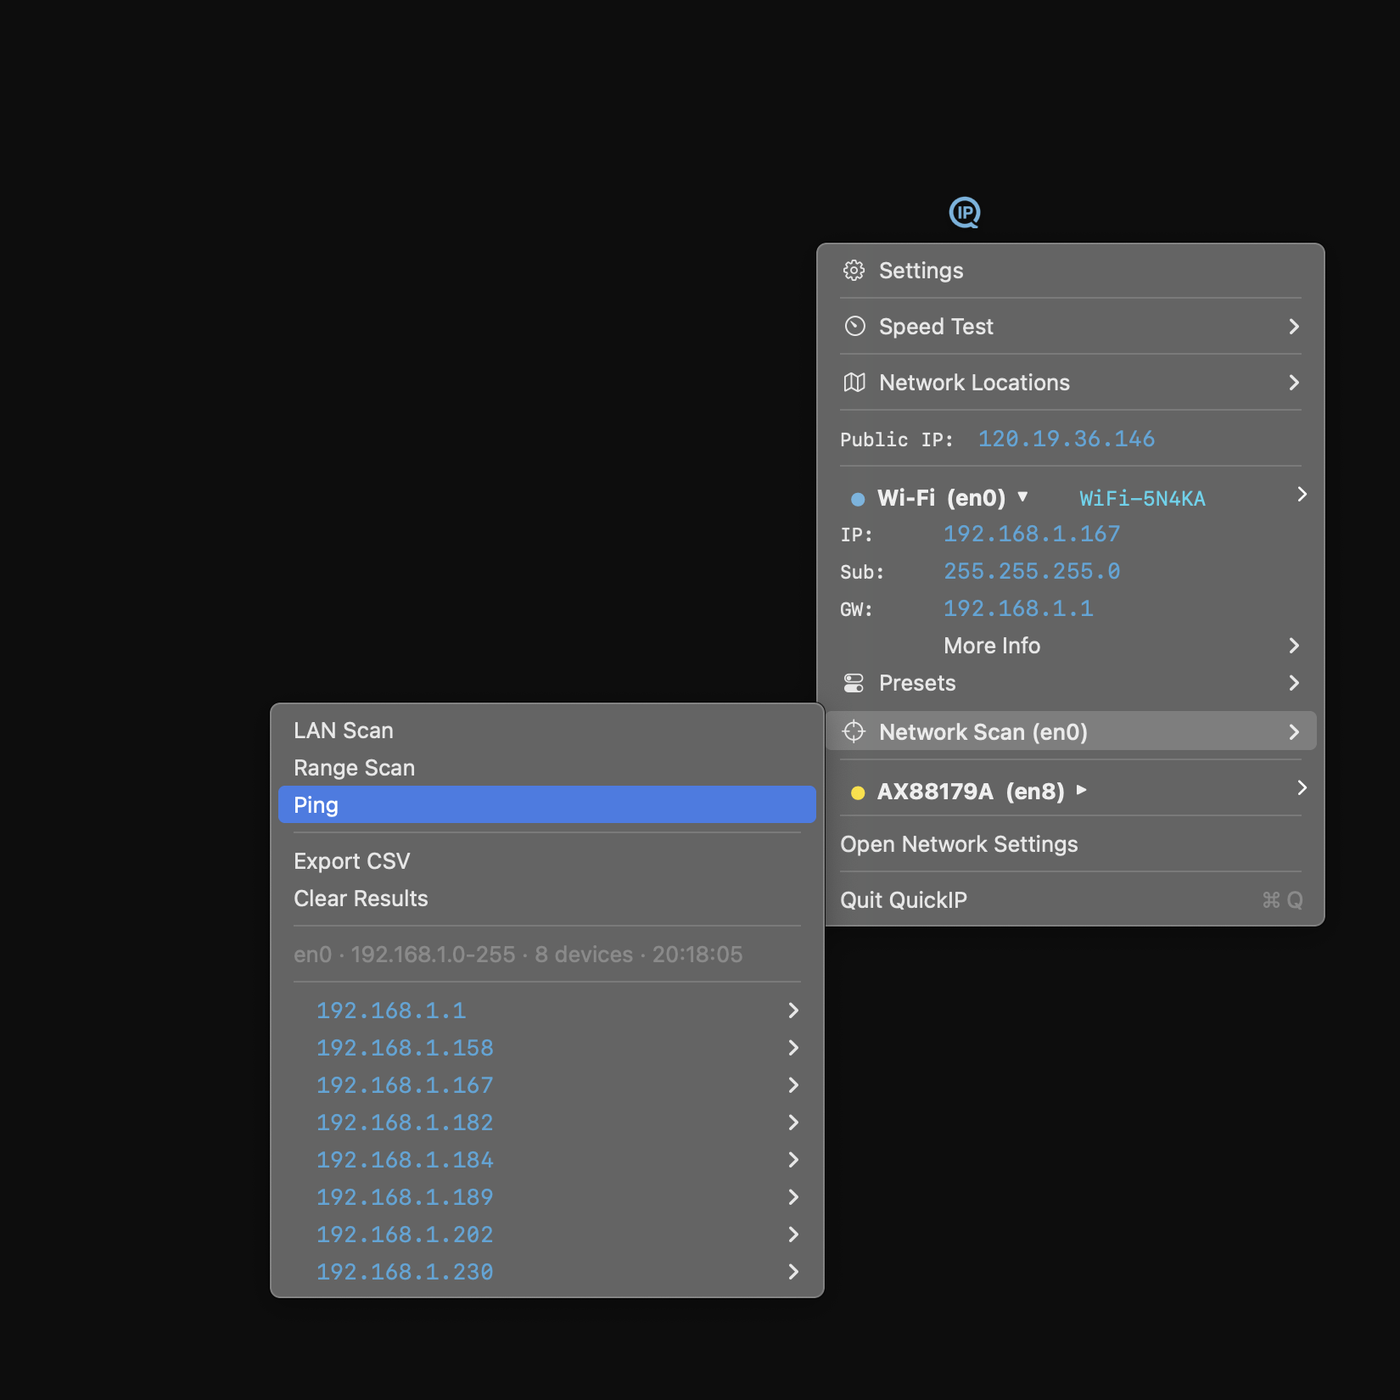
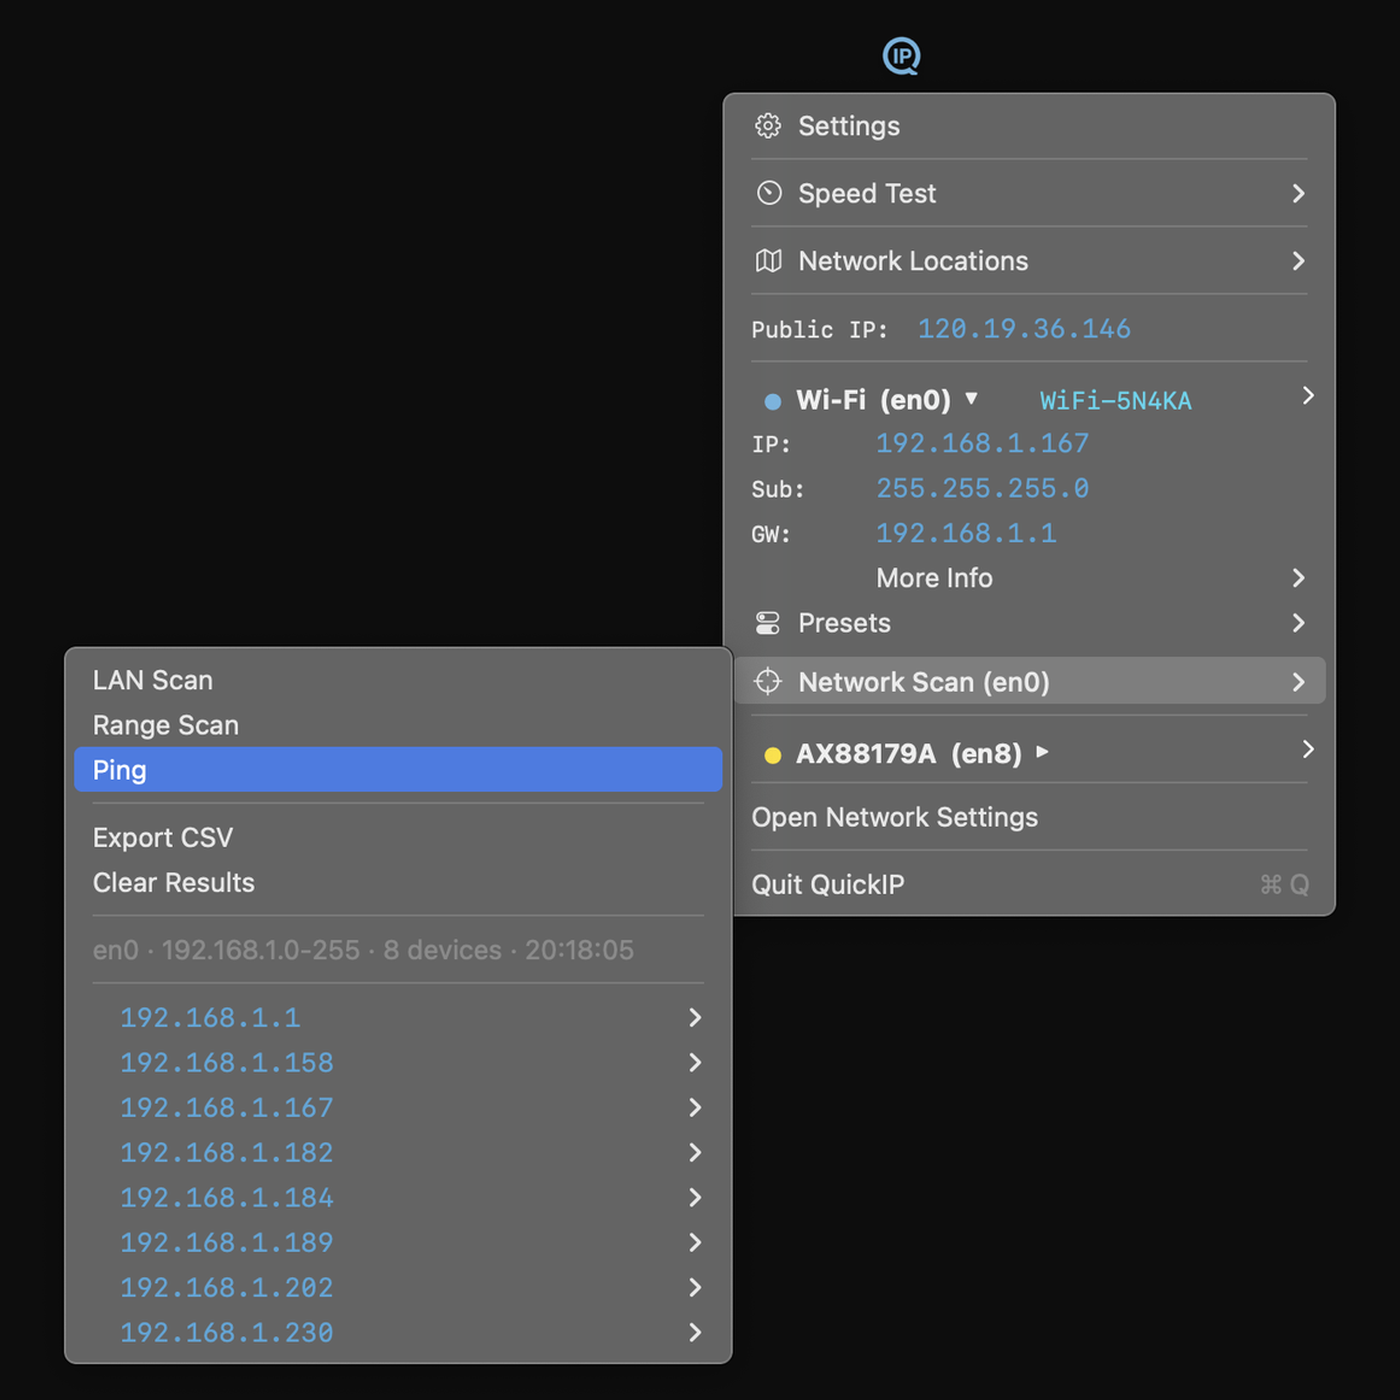
Crop Ping and Network Scan screenshots to match gallery scale

Changed region(s): [[0.0307, 0.0307, 0.9521, 0.9829]]

diff --git a/quickip/index.html b/quickip/index.html
@@ -260,9 +260,9 @@
                 <figure><img src="images/QIP More info.png?v=2" alt="QuickIP more info with Wi-Fi details"><figcaption>More Info &amp; Wi-Fi Details</figcaption></figure>
                 <figure><img src="images/QIP Wi-Fi Menu.png?v=2" alt="QuickIP Wi-Fi configuration"><figcaption>Wi-Fi Configuration</figcaption></figure>
                 <figure><img src="images/QIP LAN SCAN.png?v=2" alt="QuickIP LAN scan results"><figcaption>LAN Scan Results</figcaption></figure>
-                <figure><img src="images/QIP Network Scan.png?v=2" alt="QuickIP network scanner"><figcaption>Network Scanner</figcaption></figure>
+                <figure><img src="images/QIP Network Scan.png?v=3" alt="QuickIP network scanner"><figcaption>Network Scanner</figcaption></figure>
                 <figure><img src="images/QIP Speed Test.png?v=2" alt="QuickIP speed test"><figcaption>Speed Test</figcaption></figure>
-                <figure><img src="images/QIP Ping.png?v=2" alt="QuickIP ping tool"><figcaption>Ping</figcaption></figure>
+                <figure><img src="images/QIP Ping.png?v=3" alt="QuickIP ping tool"><figcaption>Ping</figcaption></figure>
                 <figure><img src="images/QIP Settings.png?v=2" alt="QuickIP settings"><figcaption>Settings</figcaption></figure>
             </div>
             <button class="gallery-arrow" onclick="scrollGallery(1)">&#8250;</button>
